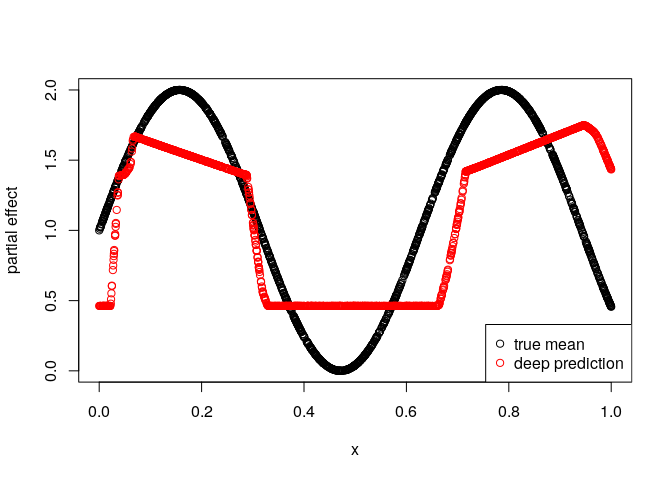
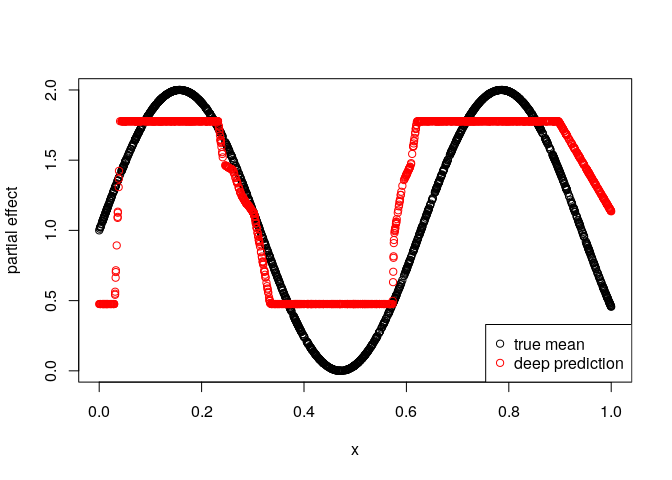
add monitoring of weights via callback

Changed region(s): [[0.125, 0.2188, 0.9375, 0.6562]]

diff --git a/README.md b/README.md
@@ -96,9 +96,7 @@ mod <- deepregression(
   data = data,
   # define how parameters should be modeled
   list_of_formulae = list(loc = ~ 1 + d(x), scale = ~1),
-  list_of_deep_models = list(deep_model, NULL),
-  # do not use early stopping (default)
-  callbacks = list()
+  list_of_deep_models = list(deep_model, NULL)
 )
 # fit model (may take a few minutes)
 mod %>% fit(epochs=1000, verbose = FALSE, view_metrics = FALSE)
@@ -324,34 +322,34 @@ mod %>% coef()
 
     ## $loc
     ## $loc$structured_nonlinear
-    ##              [,1]
-    ##  [1,]  0.62338978
-    ##  [2,] -0.23122659
-    ##  [3,]  0.39737102
-    ##  [4,] -1.54779840
-    ##  [5,] -0.56593615
-    ##  [6,] -0.32711539
-    ##  [7,]  0.01970975
-    ##  [8,]  0.94741410
-    ##  [9,]  0.34300226
-    ## [10,]  0.13150308
-    ## [11,]  0.02346712
-    ## [12,] -0.09675598
-    ## [13,]  0.03370579
-    ## [14,]  0.01167439
-    ## [15,]  0.03133864
-    ## [16,] -0.32753223
-    ## [17,] -0.20333517
-    ## [18,] -0.25170255
-    ## [19,] -0.25805160
-    ## [20,]  0.31836420
-    ## [21,]  0.27527043
+    ##             [,1]
+    ##  [1,]  0.4160898
+    ##  [2,]  0.2497826
+    ##  [3,] -0.3707316
+    ##  [4,] -2.4760108
+    ##  [5,] -0.8680781
+    ##  [6,] -0.1231995
+    ##  [7,]  0.4829883
+    ##  [8,]  1.2826728
+    ##  [9,] -0.7483706
+    ## [10,]  0.6104912
+    ## [11,]  2.5033853
+    ## [12,]  0.6700827
+    ## [13,] -0.4506202
+    ## [14,]  0.1098706
+    ## [15,] -0.1718094
+    ## [16,] -0.3002699
+    ## [17,]  0.1161409
+    ## [18,] -0.3087884
+    ## [19,] -0.5354298
+    ## [20,]  0.5545416
+    ## [21,]  1.5457950
     ## 
     ## 
     ## $scale
     ## $scale$structured_linear
     ##          [,1]
-    ## [1,] 1.944289
+    ## [1,] 2.036417
 
 ``` r
 # plot model
@@ -461,25 +459,25 @@ mod %>% coef()
 
     ## $loc
     ## $loc$structured_nonlinear
-    ##              [,1]
-    ##  [1,]  0.16390292
-    ##  [2,]  0.38354141
-    ##  [3,]  0.02230611
-    ##  [4,] -1.26975179
-    ##  [5,] -1.20085287
-    ##  [6,] -0.23791949
-    ##  [7,] -0.43339857
-    ##  [8,]  0.17561966
-    ##  [9,]  0.63289106
-    ## [10,]  0.39866617
-    ## [11,]  0.17214707
+    ##             [,1]
+    ##  [1,]  0.4877967
+    ##  [2,]  0.3977217
+    ##  [3,] -0.1169101
+    ##  [4,] -2.4036171
+    ##  [5,] -0.8514287
+    ##  [6,] -0.2191759
+    ##  [7,]  0.4018484
+    ##  [8,]  1.1934898
+    ##  [9,] -0.4583162
+    ## [10,]  1.0344293
+    ## [11,]  1.8098911
     ## 
     ## 
     ## $scale
     ## $scale$structured_linear
-    ##              [,1]
-    ## [1,] -0.007093212
-    ## [2,]  2.031275988
+    ##           [,1]
+    ## [1,] 0.3844172
+    ## [2,] 2.0406637
 
 Examples for each Distribution
 ------------------------------
